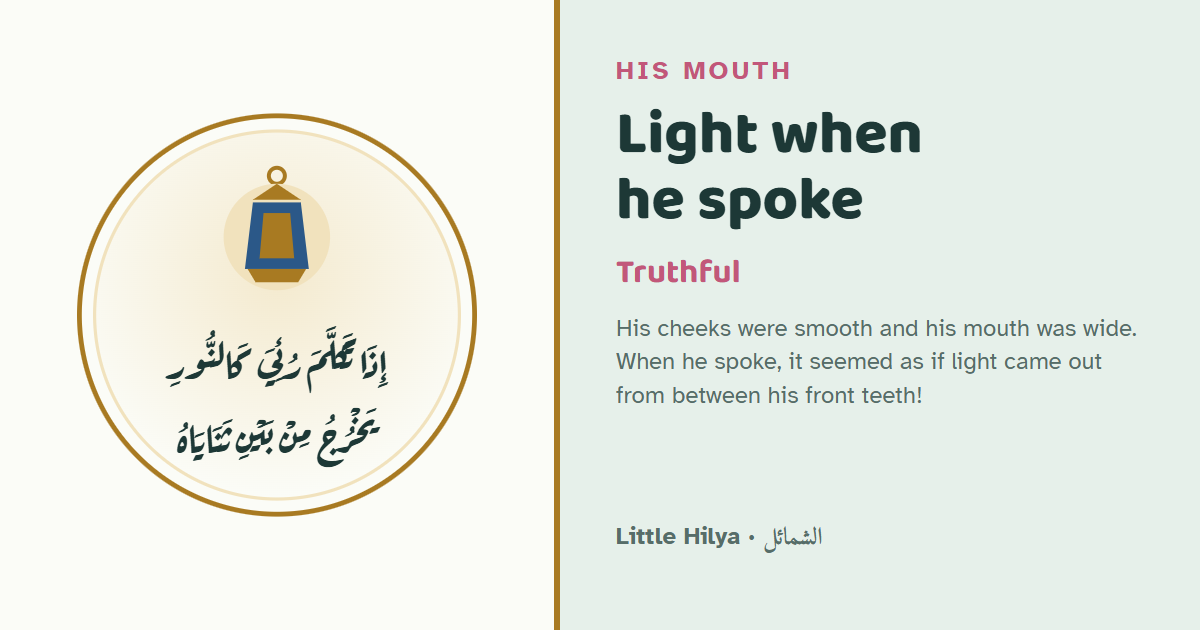
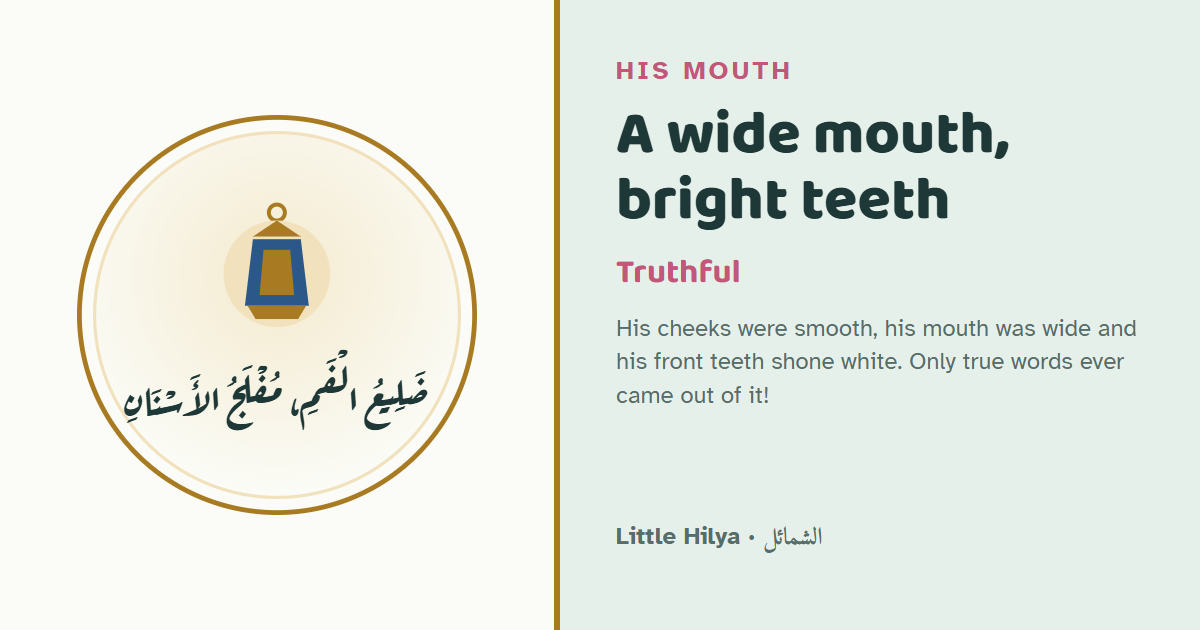
Anchor the mouth station on Simak's sound report and bright teeth, drop the severely weak light report and add the Hudaybiya well

diff --git a/src/data/stations/05-mouth.ts b/src/data/stations/05-mouth.ts
@@ -5,24 +5,34 @@ export default defineStation({
   id: "mouth",
   name: "His mouth",
   icon: "lantern",
-  phrase: "إِذَا تَكَلَّمَ رُئِيَ كَالنُّورِ يَخْرُجُ مِنْ بَيْنِ ثَنَايَاهُ",
-  title: "Light when he spoke",
-  line: "His cheeks were smooth and his mouth was wide. When he spoke, it seemed as if light came out from between his front teeth!",
+  phrase: "ضَلِيعُ الْفَمِ، مُفْلَجُ الأَسْنَانِ",
+  title: "A wide mouth, bright teeth",
+  line: "His cheeks were smooth, his mouth was wide and his front teeth shone white. Only true words ever came out of it!",
   physical: [
     {
       ref: "shamail:8",
-      phrase: "سَهْلُ الْخدَّيْنِ",
+      phrase: "سَهْلُ الْخدَّيْنِ",
       gloss: "Endowed with smooth cheeks.",
+      note: "Ibn Manẓūr (Lisān, سهل): smooth cheeks, not raised high at the cheekbones.",
+    },
+    {
+      ref: "shamail:9",
+      phrase: "ضَلِيعَ الْفَمِ",
+      gloss: "Wide-mouthed.",
+      note: "The narrator Simāk explains it as “a large mouth” (Musnad Aḥmad 20986 has the same). Ibn al-Athīr (al-Nihāya, ضلع): the Arabs praised a large mouth and disliked a small one. Al-Qārī (Jamʿ al-Wasāʾil 1/45) adds that it is a kināya for perfect eloquence; Lisān (فوه) says مُفَوَّه, “eloquent”, is “as if taken from” width of the mouth.",
     },
     {
       ref: "shamail:8",
       phrase: "ضَلِيعُ الْفَمِ، مُفْلَجُ الأَسْنَانِ",
       gloss: "A wide mouth, cleft teeth.",
+      note: "Ibn al-Athīr (al-Nihāya, فلج): falaj is a small gap between the front teeth and the teeth beside them.",
     },
     {
-      ref: "shamail:15",
-      phrase: "إِذَا تَكَلَّمَ رُئِيَ كَالنُّورِ يَخْرُجُ مِنْ بَيْنِ ثَنَايَاهُ",
-      gloss: "When he spoke, it seemed as if light were emerging from between his middle teeth.",
+      ref: "tabarani-kabir:10/10397",
+      phrase: "بَرَّاقُ الثَّنَايَا",
+      gloss: "His front teeth shone.",
+      note: "Ibn Masʿūd, on first seeing him in Mecca; ungraded in the corpus. Qāḍī ʿIyāḍ (al-Shifāʾ 1/316) glosses the related شَنَب as the brightness and freshness of the teeth. The report that light was seen coming from between his teeth when he spoke (shamail:15, darimi:59) is not shown: its one chain is graded Daʿīf Jiddan. Al-Haytamī (1/79) and al-Qārī (1/56) read it as the shine of these bright teeth, a likeness for clear speech, or a miracle.",
+      review: draft(),
     },
   ],
   character: [
@@ -30,8 +40,9 @@ export default defineStation({
       trait: "Truthful",
       line: "He pointed to his own mouth and said that nothing but the truth ever came out of it, whether he was happy or cross.",
       ref: "abudawud:3646",
-      basis: "reflection",
+      basis: "classical",
       review: draft(),
+      note: "He makes the link to his mouth himself (فَأَوْمَأَ بِأُصْبُعِهِ إِلَى فِيهِ). Al-Dārimī 501 has it with a ṣaḥīḥ chain.",
     },
   ],
   signs: [
@@ -40,12 +51,19 @@ export default defineStation({
       title: "‘Alī’s sore eyes",
       line: "At Khaybar ‘Alī had sore eyes. The Prophet ﷺ put a little of his saliva on them and prayed, and they were healed at once, as if nothing had been wrong.",
       ref: "bukhari:3009",
+      note: "ʿAlī later said: “My eyes have never been sore since the Prophet ﷺ put his saliva in them” (Musnad Aḥmad 579, ungraded in the corpus).",
     },
     {
       kind: "mujiza",
       title: "Food for a thousand",
       line: "At the Battle of the Trench, Jābir had only a little food. The Prophet ﷺ put a little of his saliva in the dough and the pot and prayed for blessing. A thousand people ate, and the pot was still full!",
       ref: "bukhari:4102",
+    },
+    {
+      kind: "mujiza",
+      title: "The well that filled up",
+      line: "At Ḥudaybiya the well was empty, and 1,400 people were thirsty. The Prophet ﷺ sat at its edge, rinsed his mouth with a little water and poured it in. Soon everyone, and all their animals, drank their fill.",
+      ref: "bukhari:3577",
     },
     {
       kind: "karama",

diff --git a/data/notes/stations.notes.md b/data/notes/stations.notes.md
@@ -13,7 +13,7 @@ Chapter 1 follows the long descriptions (#7 ‘Alī, #8 Hind) from head to toe. 
 | 3 | face* | ch1 | |
 | 4 | brow | ch1 #8 | face |
 | 5 | eyes* | ch1 | |
-| 6 | mouth | ch1 #8, #15 | eyes |
+| 6 | mouth | ch1 #8, #9 | eyes |
 | 7 | neck | ch1 #7, #8, #12 | mouth |
 | 8 | chest | ch1 #7, #8 | neck |
 | 9 | hands* | ch1 | |
@@ -29,7 +29,7 @@ Chapter 1 follows the long descriptions (#7 ‘Alī, #8 Hind) from head to toe. 
 ## Merges
 
 - **brow** = forehead + eyebrows + nose. In #8 these are three short adjacent phrases, and each one alone is too thin for a station. The "vein that anger makes pulse" gives the character link (bukhari:3560: he never took revenge for his own sake).
-- **mouth** = cheeks + mouth + teeth (#8, #15). It is kept apart from **smile** (ch34) because the saliva signs belong here and the smile hadith sit at a later point in the book.
+- **mouth** = cheeks + mouth + teeth (#8, #9). It is kept apart from **smile** (ch34) because the saliva signs belong here and the smile hadith sit at a later point in the book.
 - **hair** = ch3 hair + ch4 combing + ch5 grey hair + ch6 dye + the beard from #8. The beard alone was one phrase (كث اللحية), and ch5 counts the white hairs of the head and beard together.
 - **feet** = ch1 feet + gait + ch18 walking. #123 and #124 in ch18 repeat #5 and #7. Only #122 ("the earth seemed folded up for him") is new, so the station stays at the ch1 position. The ch40 swollen-feet hadith (#260) supplies the character link.
 - **kohl (ch7)** gets no station. It is about a practice, not a feature. **eyes** shows the natural kohl-dark look instead (shamail:225, أَكْحَلُ الْعَيْنَيْنِ، وَلَيْسَ بِأَكْحَلَ). The practice itself (shamail:51, kohl before sleep, three times in each eye) is not shown.
@@ -45,7 +45,6 @@ Needing a scholar:
 
 Other candidates found but not used:
 - Dream khasisa: "whoever sees me in a dream has seen me, for Satan cannot take my form" (shamail:407, bukhari:110). It could close the walkthrough or go on **face**.
-- Hudaybiyya well: he spat into a bucket from the well and the well then watered everyone (bukhari:4151). This could be a 4th sign for **mouth**.
 
 `cite()` needs these new `BOOKS` entries:
 - `tirmidhi` ("Jāmi‘ al-Tirmidhī", ch 49)
@@ -100,3 +99,7 @@ Points for a scholar on these four stations. Grades are shown on the site, so Da
   - The ʿAlawī route of Hind's description (bayhaqi-dalail:1/285) is cited beside shamail:8 for the downward gaze. Its chain is ungraded.
   - Qatāda's eye (tabarani-kabir:19/12) is grown-up only, as a battle injury. Badr or Uḥud: al-Bayhaqī (3/251) gives both.
   - hakim:4274 (Umm Maʿbad): is the corpus grade صحيح al-Dhahabī's or al-Ḥākim's?
+- **mouth**
+  - The light seen between his teeth when he spoke (shamail:15, with the same chain at darimi:59, bayhaqi-dalail:1/215 and tabarani-kabir:11/12181) is graded Daʿīf Jiddan and is not shown, not even for grown-ups. The bright-teeth entry (tabarani-kabir:10/10397, ungraded) mentions in its note why it is missing. A scholar may still prefer a flagged grown-up card.
+  - ضليع الفم as a kināya for eloquence is al-Qārī's reading (1/45), given in a note rather than as the meaning.
+  - Icon: the lantern now stands for true words. The owner may prefer another.
